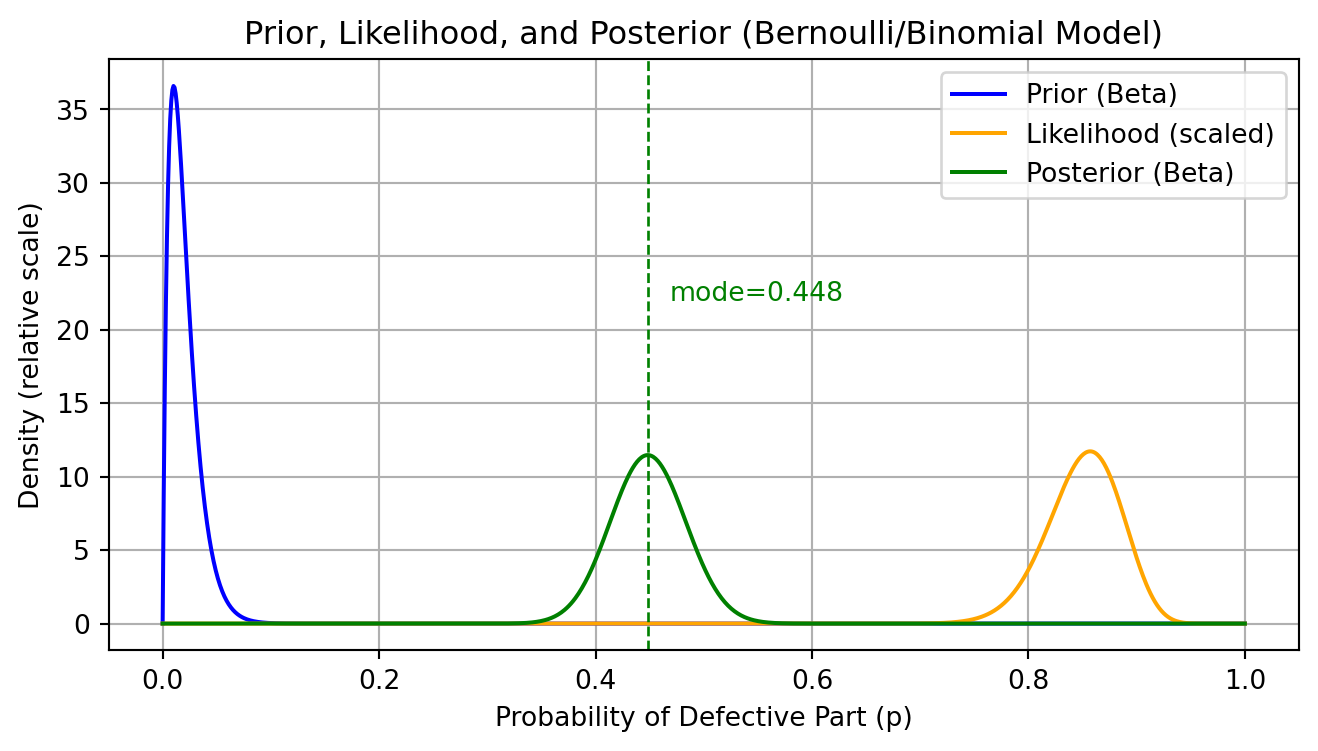
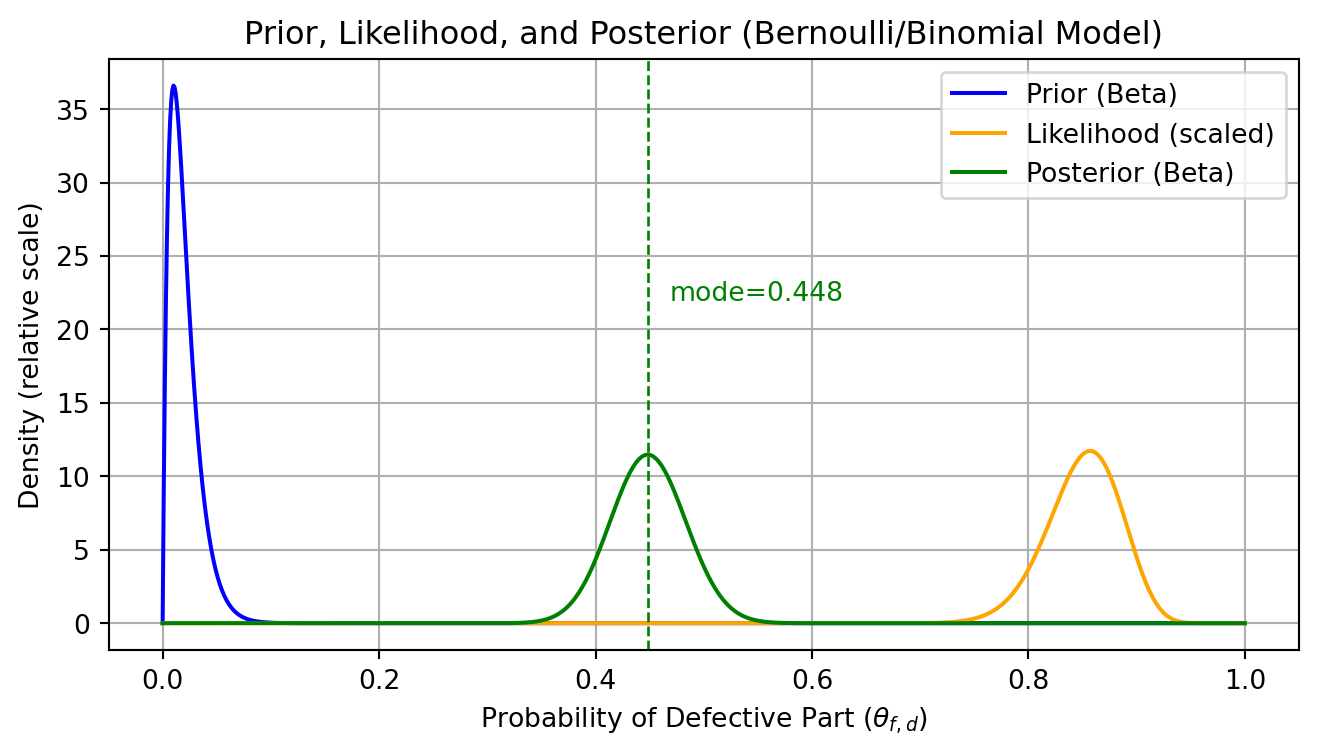
Deploy preview for PR 4 🛫

diff --git a/pr-preview/pr-4/introduction/handling-uncertainty.html b/pr-preview/pr-4/introduction/handling-uncertainty.html
@@ -313,33 +313,31 @@ p(d\vert f)=\frac{p(f\vert d)p(d)}{p(f)}=\frac{p(f\vert d)p(d)}{p(f\vert d)p(d) 
 <p>The previous example computed an analytical estimate for our posterior, making no explicit assumption about the underlying probability distribution of the prior and likelihood, treating them as fixed point estimates based on historical data.</p>
 <p>The bayesian approach conceptualizes probabilities as uncertainty. This is useful for online learning scenarios, where part of the dataset is encountered during runtime. In order to apply online learning to <a href="#exm-anomaly-detection" class="quarto-xref">Example&nbsp;<span>2.1</span></a>, let us first formally define our new learning task:</p>
 <p><span class="math display">\[
-p(\theta_d \vert \ \mathcal{D}_f, f)=?
+p(\theta_{f,d} \vert \ \mathcal{D}_f)=?
 \]</span></p>
-<p>Where <span class="math inline">\(\theta_d\)</span> is the probability of the part being defective, <span class="math inline">\(\mathcal{D}_f=\{D_1, D_2, \dots, D_i\}\)</span> is the set of observations of <span class="math inline">\(D\)</span> outcomes when <span class="math inline">\(F=f\)</span>. Interestingly, <span class="math inline">\(\theta_d\)</span> is both a probability and a random variable itself, since we are uncertain about its value.</p>
+<p>Where <span class="math inline">\(\theta_{f,d}\)</span> is the probability of the part being defective given the sensor reading, <span class="math inline">\(\mathcal{D}_f=\{D_1, D_2, \dots, D_i\}\)</span> is the set of observations of <span class="math inline">\(D\)</span> outcomes when <span class="math inline">\(F=f\)</span>. Interestingly, <span class="math inline">\(\theta_{f,d}\)</span> is both a probability and a random variable itself, since we are uncertain about its value.</p>
 <p>We can once again express our task in terms of the bayesian equation (<a href="#eq-bayes" class="quarto-xref">Equation&nbsp;<span>2.1</span></a>): <span id="eq-exm-update"><span class="math display">\[
 \begin{align*}
-p(\theta_d \vert \ \mathcal{D}_f, f)&amp;\propto p(\mathcal{D}_f, f\vert \theta_d)p(\theta_d) \\
-&amp;\propto p(\mathcal{D}_f\vert \theta_d, f)p(f\vert \theta_d)p(\theta_d) \\
-&amp;\propto p(\mathcal{D}_f\vert \theta_d, f)p(\theta_d)\\
+p(\theta_{f,d} \vert \ \mathcal{D}_f)&amp;\propto p(\mathcal{D}_f\vert \theta_{f,d})p(\theta_{f,d}) \\
+&amp;\propto p(\mathcal{D}_f\vert \theta_{f,d})(\theta_{f,d})
 \end{align*}
 \tag{2.4}\]</span></span></p>
-<p>Since <span class="math inline">\(f\)</span> is an observation and thus not directly governed by <span class="math inline">\(\theta_d\)</span> – it’s independent to it, we can drop the term <span class="math inline">\(p(f\vert \theta_d)\)</span>, as it will be a constant factor in the expression and it will be absorbed by normalization.</p>
 <section id="modelling-the-prior-and-likelihood" class="level4" data-number="2.2.4.1">
 <h4 data-number="2.2.4.1" class="anchored" data-anchor-id="modelling-the-prior-and-likelihood"><span class="header-section-number">2.2.4.1</span> Modelling the prior and likelihood</h4>
 <p>Now, we need ways to express both our likelihood and prior as probability distributions, instead of point estimates, since we want to update our belief as new data points are observed. For that, we use the concept of <em>conjugate priors</em>, which are pairs of probability distributions that, when used together in Bayes’ rule, yield a posterior distribution of the same family as the prior distribution. This property greatly simplifies the process of updating beliefs with new evidence.</p>
-<p>In our case, we can use the Beta distribution as our prior and the Bernoulli distribution as our likelihood. Specifically, we can model the prior distribution of <span class="math inline">\(\theta_d\)</span> as a Beta distribution, <span class="math inline">\(Beta(\alpha_d, \beta_d)\)</span>, and the likelihood of the observed data as a Bernoulli distribution, <span class="math inline">\(Ber(\theta_d)\)</span>.</p>
+<p>In our case, we can use the Beta distribution as our prior and the Bernoulli distribution as our likelihood. Specifically, we can model the prior distribution of <span class="math inline">\(\theta_{f,d}\)</span> as a Beta distribution, <span class="math inline">\(Beta(a, b)\)</span>, and the likelihood of the observed data as a Bernoulli distribution, <span class="math inline">\(Ber(\theta_{f,d})\)</span>.</p>
 <p><span class="math display">\[
-\mathcal{D}_f\vert \theta_d, f \sim Ber(\theta_d)
+\mathcal{D}_f\vert \theta_{f,d} \sim Ber(\theta_{f,d})
 \]</span> <span class="math display">\[
-\theta_d \sim Beta(a, b)
+\theta_{f,d} \sim Beta(a, b)
 \]</span></p>
 <p>Where <span class="math inline">\(\sim\)</span> means that the random variable follows the probability distribution on the right side. The Beta distribution is defined on the interval <span class="math inline">\([0, 1]\)</span> and is parameterized by two positive shape parameters, <span class="math inline">\(a\)</span> and <span class="math inline">\(b\)</span>, commonly referred as hyperparameters and they are used to encode our beliefs into the prior distribution. It is often used to model the distribution of probabilities. The Bernoulli distribution, on the other hand, models binary outcomes (success/failure) and is parameterized by a single probability parameter <span class="math inline">\(\theta\)</span>.</p>
-<p>We can write our likelihood and prior as: <span class="math display">\[p(\mathcal{D}_f\vert \theta_d, f)=\theta_d^{N_{f,d}}(1-\theta_d)^{N_{f,nd}}\]</span> <span class="math display">\[p(\theta_d)\propto \theta_d^{a-1}(1-\theta_d)^{b-1}\]</span></p>
+<p>We can write our likelihood and prior as: <span class="math display">\[p(\mathcal{D}_f\vert \theta_{f,d})=\theta_{f,d}^{N_{f,d}}(1-\theta_{f,d})^{N_{f,nd}}\]</span> <span class="math display">\[p(\theta_{f,d})\propto \theta_{f,d}^{a-1}(1-\theta_{f,d})^{b-1}\]</span></p>
 <p>Here, <span class="math inline">\(N_{f,d}\)</span> and <span class="math inline">\(N_{f,nd}\)</span> are the counts of flagged defective and non-defective events. Plugging in these expressions into <a href="#eq-exm-update" class="quarto-xref">Equation&nbsp;<span>2.4</span></a>, we get: <span id="eq-exm-update-2"><span class="math display">\[
 \begin{align*}
-p(\theta_d \vert \ \mathcal{D}_f, f)&amp;\propto Ber(\theta_d)Beta(a, b) \\
-&amp;\propto \theta_d^{N_{f,d}}(1-\theta_d)^{N_{f,nd}}\theta_d^{a-1}(1-\theta_d)^{b-1} \\
-&amp;\propto \theta_d^{N_{f,d}+a-1}(1-\theta_d)^{N_{f,nd}+b-1} \\
+p(\theta_{f,d} \vert \ \mathcal{D}_f)&amp;\propto Ber(\theta_{f,d})Beta(a, b) \\
+&amp;\propto \theta_{f,d}^{N_{f,d}}(1-\theta_{f,d})^{N_{f,nd}}\theta_{f,d}^{a-1}(1-\theta_{f,d})^{b-1} \\
+&amp;\propto \theta_{f,d}^{N_{f,d}+a-1}(1-\theta_{f,d})^{N_{f,nd}+b-1} \\
 &amp;\propto Beta(a+N_{f,d}, b+N_{f,nd})
 \end{align*}
 \tag{2.5}\]</span></span></p>
@@ -348,26 +346,26 @@ p(\theta_d \vert \ \mathcal{D}_f, f)&amp;\propto Ber(\theta_d)Beta(a, b) \\
 \tag{2.6}\]</span></span></p>
 <p>Based on that, we can compute the mode, or MAP estimate, of our posterior distribution as: <span id="eq-exm-map"><span class="math display">\[
 \begin{align*}
-\hat{\theta_d}\vert \ \mathcal{D}_f, f&amp;=\frac{a+N_{f,d}-1}{a+b+N_{f,d}+N_{f,nd}-2} \\
+\hat{\theta}_{f,d}\vert \ \mathcal{D}_f&amp;=\frac{a+N_{f,d}-1}{a+b+N_{f,d}+N_{f,nd}-2} \\
 &amp;=\frac{a+N_{f,d}-1}{a+b+N_f-2} \\
 \end{align*}
 \tag{2.7}\]</span></span></p>
 <p>Where <span class="math inline">\(N_f=N_{f,d}+N_{f,nd}\)</span> is the total number of flagged events. Let us plot the prior, likelihood and posterior distributions for our initial example. We can choose the hyperparameters <span class="math inline">\(a\)</span> and <span class="math inline">\(b\)</span> such that the prior mean matches our initial belief of <span class="math inline">\(p(d)=0.02\)</span>. A good choice is to set <span class="math inline">\(a=2\)</span> and <span class="math inline">\(b=98\)</span>, which gives us the same prior mean of <span class="math inline">\(2/(2+98)=0.02\)</span>. For the likelihood, we can use the counts of flagged defective and non-defective events based on our initial example. Assuming we observed <span class="math inline">\(90\)</span> flagged defective events and <span class="math inline">\(15\)</span> flagged non-defective events, we have <span class="math inline">\(N_{f,d}=90\)</span> and <span class="math inline">\(N_{f,nd}=15\)</span>. Thus, our posterior will have parameters <span class="math inline">\(a+N_{f,d}=2+90=92\)</span> and <span class="math inline">\(b+N_{f,nd}=98+15=113\)</span>.</p>
-<div id="f43fbb11" class="cell" data-execution_count="1">
+<div id="62074592" class="cell" data-execution_count="1">
 <div class="cell-output cell-output-display">
 <div>
 <figure class="figure">
-<p><img src="handling-uncertainty_files/figure-html/cell-2-output-1.png" width="659" height="376" class="figure-img"></p>
+<p><img src="handling-uncertainty_files/figure-html/cell-2-output-1.png" width="659" height="378" class="figure-img"></p>
 </figure>
 </div>
 </div>
 </div>
-<p>To see how new observations gradually nudge our posterior beliefs, the next simulation follows 1000 consecutive parts. After each part, the posterior is updated and the mode and the error bar is computed based on <a href="#eq-beta-props" class="quarto-xref">Equation&nbsp;<span>2.6</span></a>. The error bar is computed as one standard deviation around the mode, assuming a latent true latent defect probability of flagged events of <span class="math inline">\(0.6\)</span>.</p>
-<div id="60aa1296" class="cell" data-execution_count="2">
+<p>To see how new observations gradually nudge our posterior beliefs, the next simulation follows 1000 consecutive parts. After each part, the posterior is updated and the mode and the error bar is computed based on <a href="#eq-beta-props" class="quarto-xref">Equation&nbsp;<span>2.6</span></a>. The error bar is computed as three times the standard deviation (<span class="math inline">\(3\sigma\)</span>) around the mode, assuming a latent true latent defect probability of flagged events of <span class="math inline">\(\theta_{f,d}^\star=0.6\)</span>.</p>
+<div id="3eb7b215" class="cell" data-execution_count="2">
 <div class="cell-output cell-output-display">
 <div>
 <figure class="figure">
-<p><img src="handling-uncertainty_files/figure-html/cell-3-output-1.png" width="758" height="374" class="figure-img"></p>
+<p><img src="handling-uncertainty_files/figure-html/cell-3-output-1.png" width="756" height="373" class="figure-img"></p>
 </figure>
 </div>
 </div>
@@ -375,7 +373,6 @@ p(\theta_d \vert \ \mathcal{D}_f, f)&amp;\propto Ber(\theta_d)Beta(a, b) \\
 <p>TODOS:</p>
 <ol type="1">
 <li>Add insights about the plot</li>
-<li>Simplify <span class="math inline">\(\theta_d\vert f\)</span> to <span class="math inline">\(\theta_{d,f}\)</span> since we are computting the posterior only when <span class="math inline">\(F=f\)</span></li>
 <li>The error at the beginning is too small, how can we improve this?</li>
 <li>Add algorithm for the online update</li>
 </ol>
